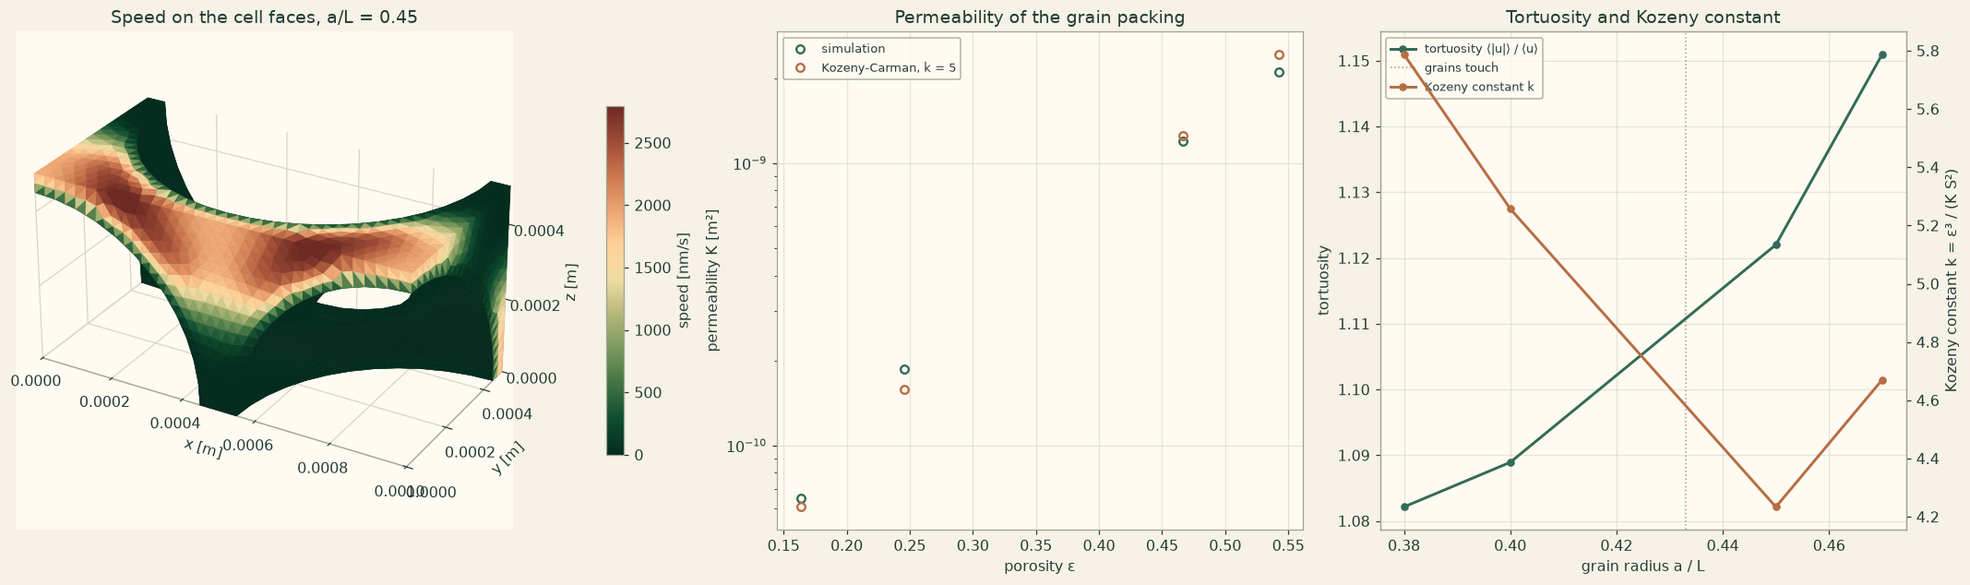
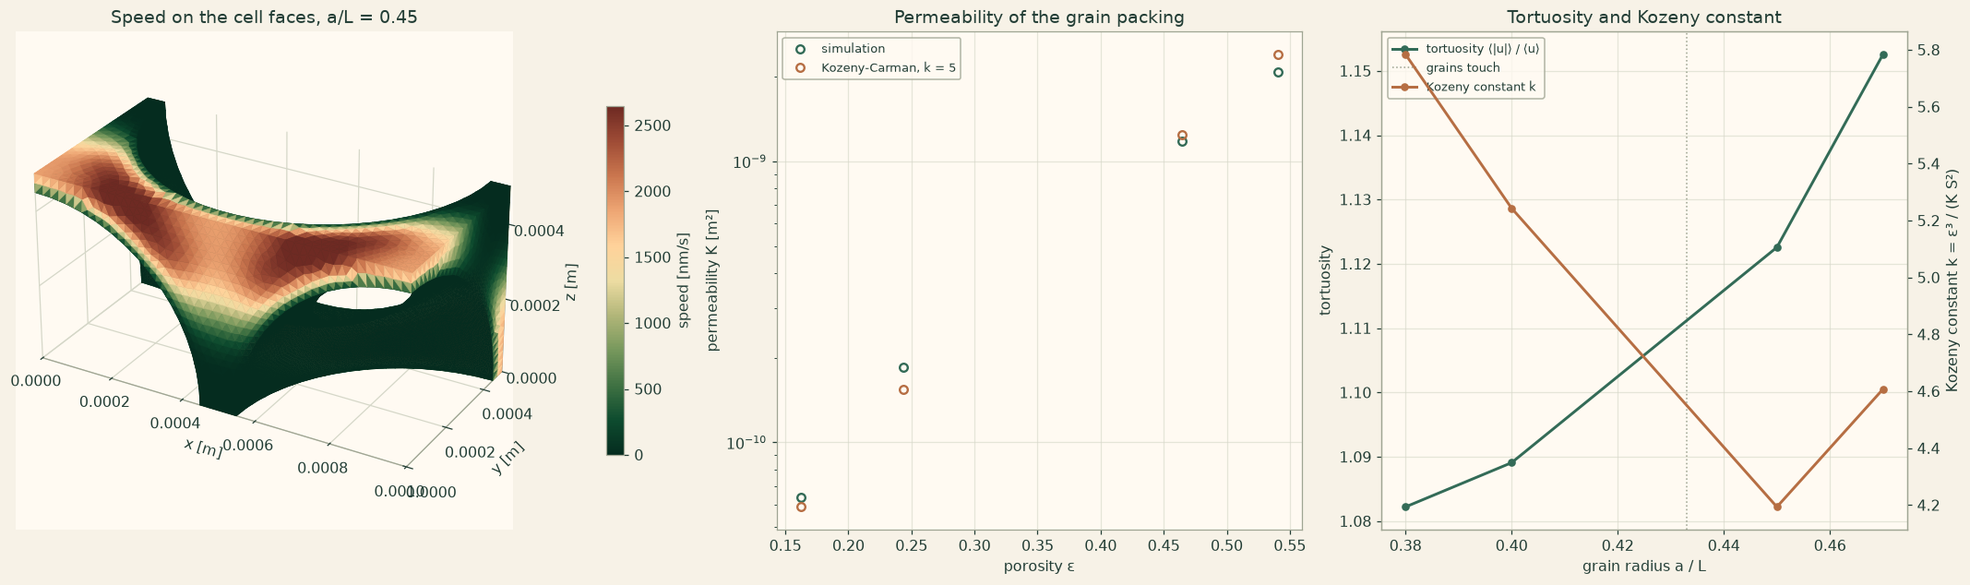
Publish refined three-dimensional permeability and grain-flow figures

diff --git a/examples/notebooks/porous_microstructure_hexagonal_array.html b/examples/notebooks/porous_microstructure_hexagonal_array.html
@@ -22,7 +22,7 @@
 <div class="layout">
 <details class="menu"><summary>Menu</summary><nav class="side" aria-label="Documentation"><a class="" href="../../index.html">Overview</a><a class="" href="../../quickstart.html">Quickstart</a><p class="group">Examples</p><a class="" href="../../examples/index.html">Example library</a><a class="" href="../../examples/method-swap.html">One model, five discretizations</a><a class="" href="../../examples/cantilever.html">A 3D cantilever</a><a class="" href="../../examples/custom-equation.html">Your own equation</a><p class="group">Guide</p><p class="part">Start here</p><a class="" href="../../guide/how-to-use-this-guide.html"><span class="num"></span> How to use this guide</a><p class="part">Part I · From model to notebook</p><a class="" href="../../guide/1-set-up-the-notebook.html"><span class="num">1</span> Set up the notebook</a><a class="" href="../../guide/2-transient-radiation-and-vibration.html"><span class="num">2</span> Transient radiation and vibration</a><a class="" href="../../guide/3-three-spatial-studies.html"><span class="num">3</span> Three spatial studies</a><a class="" href="../../guide/4-read-visualize-and-export-results.html"><span class="num">4</span> Read, visualize and export results</a><p class="part">Part II · Physics model selection</p><a class="" href="../../guide/5-build-a-first-case-in-each-physics-package/index.html"><span class="num">5</span> Build a first case in each physics package</a><a class="" href="../../guide/6-worked-physics-and-service-recipes/index.html"><span class="num">6</span> Worked physics and service recipes</a><p class="part">Part III · Select and combine numerical methods</p><a class="" href="../../guide/7-numerical-configuration-and-spatial-operators.html"><span class="num">7</span> Numerical configuration and spatial operators</a><a class="" href="../../guide/8-solvers-time-integration-and-coupled-fields.html"><span class="num">8</span> Solvers, time integration and coupled fields</a><a class="" href="../../guide/9-worked-numerical-comparisons/index.html"><span class="num">9</span> Worked numerical comparisons</a><a class="" href="../../guide/10-executable-numerical-recipes/index.html"><span class="num">10</span> Executable numerical recipes</a><a class="" href="../../guide/11-define-and-solve-your-own-equation.html"><span class="num">11</span> Define and solve your own equation</a><a class="" href="../../guide/12-diagnose-a-notebook-result.html"><span class="num">12</span> Diagnose a notebook result</a><a class="" href="../../guide/13-coverage-and-navigation-by-symbol/index.html"><span class="num">13</span> Coverage and navigation by symbol</a><p class="part">API reference</p><a class="" href="../../reference/a-physics-api-reference/index.html"><span class="num">A</span> Physics API reference</a><a class="" href="../../reference/b-numerical-api-reference/index.html"><span class="num">B</span> Numerical API reference</a><a class="" href="../../reference/c-exposed-operator-and-service-namespaces/index.html"><span class="num">C</span> Exposed operator and service namespaces</a><p class="group">Teaching</p><a class="" href="../../teaching/index.html">For instructors</a><a class="" href="../../teaching/course.html">A 14-week lab course</a><a class="" href="../../teaching/exercises.html">Exercise sheets</a><p class="group">Trust and terms</p><a class="" href="../../verification.html">Verification</a><a class="" href="../../plans.html">Plans and licence</a></nav></details>
 <div class="side-wrap"><nav class="side" aria-label="Documentation"><a class="" href="../../index.html">Overview</a><a class="" href="../../quickstart.html">Quickstart</a><p class="group">Examples</p><a class="" href="../../examples/index.html">Example library</a><a class="" href="../../examples/method-swap.html">One model, five discretizations</a><a class="" href="../../examples/cantilever.html">A 3D cantilever</a><a class="" href="../../examples/custom-equation.html">Your own equation</a><p class="group">Guide</p><p class="part">Start here</p><a class="" href="../../guide/how-to-use-this-guide.html"><span class="num"></span> How to use this guide</a><p class="part">Part I · From model to notebook</p><a class="" href="../../guide/1-set-up-the-notebook.html"><span class="num">1</span> Set up the notebook</a><a class="" href="../../guide/2-transient-radiation-and-vibration.html"><span class="num">2</span> Transient radiation and vibration</a><a class="" href="../../guide/3-three-spatial-studies.html"><span class="num">3</span> Three spatial studies</a><a class="" href="../../guide/4-read-visualize-and-export-results.html"><span class="num">4</span> Read, visualize and export results</a><p class="part">Part II · Physics model selection</p><a class="" href="../../guide/5-build-a-first-case-in-each-physics-package/index.html"><span class="num">5</span> Build a first case in each physics package</a><a class="" href="../../guide/6-worked-physics-and-service-recipes/index.html"><span class="num">6</span> Worked physics and service recipes</a><p class="part">Part III · Select and combine numerical methods</p><a class="" href="../../guide/7-numerical-configuration-and-spatial-operators.html"><span class="num">7</span> Numerical configuration and spatial operators</a><a class="" href="../../guide/8-solvers-time-integration-and-coupled-fields.html"><span class="num">8</span> Solvers, time integration and coupled fields</a><a class="" href="../../guide/9-worked-numerical-comparisons/index.html"><span class="num">9</span> Worked numerical comparisons</a><a class="" href="../../guide/10-executable-numerical-recipes/index.html"><span class="num">10</span> Executable numerical recipes</a><a class="" href="../../guide/11-define-and-solve-your-own-equation.html"><span class="num">11</span> Define and solve your own equation</a><a class="" href="../../guide/12-diagnose-a-notebook-result.html"><span class="num">12</span> Diagnose a notebook result</a><a class="" href="../../guide/13-coverage-and-navigation-by-symbol/index.html"><span class="num">13</span> Coverage and navigation by symbol</a><p class="part">API reference</p><a class="" href="../../reference/a-physics-api-reference/index.html"><span class="num">A</span> Physics API reference</a><a class="" href="../../reference/b-numerical-api-reference/index.html"><span class="num">B</span> Numerical API reference</a><a class="" href="../../reference/c-exposed-operator-and-service-namespaces/index.html"><span class="num">C</span> Exposed operator and service namespaces</a><p class="group">Teaching</p><a class="" href="../../teaching/index.html">For instructors</a><a class="" href="../../teaching/course.html">A 14-week lab course</a><a class="" href="../../teaching/exercises.html">Exercise sheets</a><p class="group">Trust and terms</p><a class="" href="../../verification.html">Verification</a><a class="" href="../../plans.html">Plans and licence</a></nav></div>
-<main id="content"><p class="crumbs"><a href="../../index.html">Docs</a> › <a href="../../examples/index.html">Examples</a> › Porous structure on the microscopic scale: a sintered grain packing</p><p class="eyebrow">Porous media · 3D</p><h1>Porous structure on the microscopic scale: a sintered grain packing</h1><p class="lead">Porosity, specific surface, tortuosity and permeability of a body-centred grain packing, with separate and with sintered grains, from the resolved 3D pore flow in one periodic cell.</p><div class="chips"><span>STEP import</span><span>Periodic pore cell</span><span>Taylor-Hood tetrahedra</span><span>Kozeny-Carman check</span></div><p class="note"><strong>Run locally with OneSimulation.</strong> The example downloads are free. Running them requires an activated runtime. Runtime Alpha 0.2.1a8 · CPython 3.13 on macOS (Apple Silicon), Ubuntu 22.04 (x86-64), and Windows x64. <a href="../../quickstart.html#need">Installation and activation</a> · <a href="../../plans.html">View pilot plans</a>. <a href="../../verification.html#scope">Scope of the reference checks</a>.</p><div class="button-row"><a class="button" href="../../notebooks/porous_microstructure_hexagonal_array.ipynb" download>Download the notebook (.ipynb)</a><a class="button light" href="../../notebooks/porous_microstructure_hexagonal_array.py" download>Download the script (.py)</a><a class="button light" href="../../notebooks/porous_microstructure_hexagonal_array.step" download>Download the geometry (.step)</a><a class="button light" href="../../notebooks/porous_microstructure_hexagonal_array_geometry.py" download>Download the geometry script (.py)</a></div><figure><a href="../../figures/library/porous_microstructure_hexagonal_array.png" aria-label="Open result plot for Porous structure on the microscopic scale: a sintered grain packing at full size" style="display:inline-block;max-width:100%;cursor:zoom-in"><img loading="lazy" src="../../figures/library/porous_microstructure_hexagonal_array.png" alt="Porous structure on the microscopic scale: a sintered grain packing"></a><figcaption>Porous structure on the microscopic scale: a sintered grain packing. Run the notebook to produce its own figures.</figcaption></figure><h2 id="what">What it computes</h2><p>OneSimulation reads a quarter of the periodic unit cell, the pore space left between corner and centre grains, from STEP files for four grain sizes, meshes it with tetrahedra whose periodic faces match and solves the 3D creeping flow with Taylor-Hood elements, driven by a uniform pressure gradient between mirror planes; the homogenized numbers for a Darcy or Brinkman model follow by integration. The script that builds the STEP files comes with the notebook.</p><h2 id="checks">What it checks</h2><p>The permeability lies within 0.86 to 1.18 times the Kozeny-Carman value with Carman&#x27;s constant 5 for porosities 0.16 to 0.54 (computed Kozeny constant 4.2 to 5.8), the mesh porosity matches the CAD volume within 0.003, and the mesh study at a/L = 0.45 changes the permeability by 0.8 % between the two finest meshes.</p><h2 id="geometry">Geometry</h2><p>The notebook starts at the import of the CAD files <a href="../../notebooks/porous_microstructure_hexagonal_array.step" download><code>porous_microstructure_hexagonal_array.step</code></a>, <a href="../../notebooks/porous_microstructure_hexagonal_array_38.step" download><code>porous_microstructure_hexagonal_array_38.step</code></a>, <a href="../../notebooks/porous_microstructure_hexagonal_array_40.step" download><code>porous_microstructure_hexagonal_array_40.step</code></a>, <a href="../../notebooks/porous_microstructure_hexagonal_array_45.step" download><code>porous_microstructure_hexagonal_array_45.step</code></a>, <a href="../../notebooks/porous_microstructure_hexagonal_array_47.step" download><code>porous_microstructure_hexagonal_array_47.step</code></a>: STEP (AP242), readable by any CAD program, with the names of the faces that the boundary conditions use. Put them next to the notebook.</p><figure><a href="../../figures/library/porous_microstructure_hexagonal_array_geometry.png" aria-label="Open geometry for Porous structure on the microscopic scale: a sintered grain packing at full size" style="display:inline-block;max-width:100%;cursor:zoom-in"><img loading="lazy" src="../../figures/library/porous_microstructure_hexagonal_array_geometry.png" alt="Geometry of the example: Porous structure on the microscopic scale: a sintered grain packing"></a><figcaption>The geometry as the notebook reads it from the STEP file and draws it.</figcaption></figure><div class="button-row"><a class="button light" href="../../notebooks/porous_microstructure_hexagonal_array.step" download>Download the geometry (.step)</a><a class="button light" href="../../notebooks/porous_microstructure_hexagonal_array_38.step" download>Download the part 38 (.step)</a><a class="button light" href="../../notebooks/porous_microstructure_hexagonal_array_40.step" download>Download the part 40 (.step)</a><a class="button light" href="../../notebooks/porous_microstructure_hexagonal_array_45.step" download>Download the part 45 (.step)</a><a class="button light" href="../../notebooks/porous_microstructure_hexagonal_array_47.step" download>Download the part 47 (.step)</a><a class="button light" href="../../notebooks/porous_microstructure_hexagonal_array_geometry.py" download>Download the geometry script (.py)</a></div><h3 id="geometry-script">The geometry script</h3><p>The script <a href="../../notebooks/porous_microstructure_hexagonal_array_geometry.py" download><code>porous_microstructure_hexagonal_array_geometry.py</code></a> builds the geometry with the CAD objects of OneSimulation and writes the files. Change a dimension there, run it, and run the notebook again.</p><div class="notebook"><div class="nb-code"><pre class="code" data-lang="python"><code><span class="sd">&quot;&quot;&quot;Geometry of the OneSimulation example &quot;Porous structure on the microscopic scale: a sintered grain packing&quot;.</span>
+<main id="content"><p class="crumbs"><a href="../../index.html">Docs</a> › <a href="../../examples/index.html">Examples</a> › Porous structure on the microscopic scale: a sintered grain packing</p><p class="eyebrow">Porous media · 3D</p><h1>Porous structure on the microscopic scale: a sintered grain packing</h1><p class="lead">Porosity, specific surface, tortuosity and permeability of a body-centred grain packing, with separate and with sintered grains, from the resolved 3D pore flow in one periodic cell.</p><div class="chips"><span>STEP import</span><span>Periodic pore cell</span><span>Taylor-Hood tetrahedra</span><span>Kozeny-Carman check</span></div><p class="note"><strong>Run locally with OneSimulation.</strong> The example downloads are free. Running them requires an activated runtime. Runtime Alpha 0.2.1a8 · CPython 3.13 on macOS (Apple Silicon), Ubuntu 22.04 (x86-64), and Windows x64. <a href="../../quickstart.html#need">Installation and activation</a> · <a href="../../plans.html">View pilot plans</a>. <a href="../../verification.html#scope">Scope of the reference checks</a>.</p><div class="button-row"><a class="button" href="../../notebooks/porous_microstructure_hexagonal_array.ipynb" download>Download the notebook (.ipynb)</a><a class="button light" href="../../notebooks/porous_microstructure_hexagonal_array.py" download>Download the script (.py)</a><a class="button light" href="../../notebooks/porous_microstructure_hexagonal_array.step" download>Download the geometry (.step)</a><a class="button light" href="../../notebooks/porous_microstructure_hexagonal_array_geometry.py" download>Download the geometry script (.py)</a></div><figure><a href="../../figures/library/porous_microstructure_hexagonal_array.png" aria-label="Open result plot for Porous structure on the microscopic scale: a sintered grain packing at full size" style="display:inline-block;max-width:100%;cursor:zoom-in"><img loading="lazy" src="../../figures/library/porous_microstructure_hexagonal_array.png" alt="Porous structure on the microscopic scale: a sintered grain packing"></a><figcaption>Porous structure on the microscopic scale: a sintered grain packing. Run the notebook to produce its own figures.</figcaption></figure><h2 id="what">What it computes</h2><p>OneSimulation reads a quarter of the periodic unit cell, the pore space left between corner and centre grains, from STEP files for four grain sizes, meshes it with tetrahedra whose periodic faces match and solves the 3D creeping flow with Taylor-Hood elements, driven by a uniform pressure gradient between mirror planes; the homogenized numbers for a Darcy or Brinkman model follow by integration. The script that builds the STEP files comes with the notebook.</p><h2 id="checks">What it checks</h2><p>At a/L = 0.45 the finest grid grows from 2,386 to 4,887 nodes and from 8,097 to 17,418 tetrahedra. The last two meshes give a 0.42% change in permeability, with K = 1.846e-10 m² on the finest grid. Across all four packings, permeability is 0.86–1.19 times the Kozeny-Carman estimate, and the largest absolute difference between mesh and CAD porosity is 0.0006.</p><h2 id="geometry">Geometry</h2><p>Save the STEP files <a href="../../notebooks/porous_microstructure_hexagonal_array.step" download><code>porous_microstructure_hexagonal_array.step</code></a>, <a href="../../notebooks/porous_microstructure_hexagonal_array_38.step" download><code>porous_microstructure_hexagonal_array_38.step</code></a>, <a href="../../notebooks/porous_microstructure_hexagonal_array_40.step" download><code>porous_microstructure_hexagonal_array_40.step</code></a>, <a href="../../notebooks/porous_microstructure_hexagonal_array_45.step" download><code>porous_microstructure_hexagonal_array_45.step</code></a>, <a href="../../notebooks/porous_microstructure_hexagonal_array_47.step" download><code>porous_microstructure_hexagonal_array_47.step</code></a> next to the notebook before running it.</p><figure><a href="../../figures/library/porous_microstructure_hexagonal_array_geometry.png" aria-label="Open geometry for Porous structure on the microscopic scale: a sintered grain packing at full size" style="display:inline-block;max-width:100%;cursor:zoom-in"><img loading="lazy" src="../../figures/library/porous_microstructure_hexagonal_array_geometry.png" alt="Geometry of the example: Porous structure on the microscopic scale: a sintered grain packing"></a><figcaption>Geometry used by the notebook.</figcaption></figure><div class="button-row"><a class="button light" href="../../notebooks/porous_microstructure_hexagonal_array.step" download>Download the geometry (.step)</a><a class="button light" href="../../notebooks/porous_microstructure_hexagonal_array_38.step" download>Download the part 38 (.step)</a><a class="button light" href="../../notebooks/porous_microstructure_hexagonal_array_40.step" download>Download the part 40 (.step)</a><a class="button light" href="../../notebooks/porous_microstructure_hexagonal_array_45.step" download>Download the part 45 (.step)</a><a class="button light" href="../../notebooks/porous_microstructure_hexagonal_array_47.step" download>Download the part 47 (.step)</a><a class="button light" href="../../notebooks/porous_microstructure_hexagonal_array_geometry.py" download>Download the geometry script (.py)</a></div><h3 id="geometry-script">The geometry script</h3><p>The script <a href="../../notebooks/porous_microstructure_hexagonal_array_geometry.py" download><code>porous_microstructure_hexagonal_array_geometry.py</code></a> builds the geometry with the CAD objects of OneSimulation and writes the files. Change a dimension there, run it, and run the notebook again.</p><div class="notebook"><div class="nb-code"><pre class="code" data-lang="python"><code><span class="sd">&quot;&quot;&quot;Geometry of the OneSimulation example &quot;Porous structure on the microscopic scale: a sintered grain packing&quot;.</span>
 
 <span class="sd">Builds a quarter of the periodic unit cell of a body-centred cubic packing of spherical grains with</span>
 <span class="sd">the CAD objects of OneSimulation. The cell has the side 1 mm; grains sit on its corners and in its</span>
@@ -71,15 +71,17 @@
 <span class="kn">from</span><span class="w"> </span><span class="nn">onesim.visualization</span><span class="w"> </span><span class="kn">import</span> <span class="n">plots</span><span class="p">,</span> <span class="n">theme</span>
 
 <span class="n">theme</span><span class="o">.</span><span class="n">set</span><span class="p">()</span></code></pre></div><div class="nb-md"><h4>Geometry and mesh</h4>
-<p>Tetrahedra of 0.06 mm in the pores and 0.032 mm on the grains; the two periodic faces carry the same triangles. The mesh study at <span class="math">\(a/L=0.45\)</span> adds 0.045 mm and 0.022 mm on the grains. The specific surface is the area of the grain faces of the CAD part over the volume of the quarter.</p></div><div class="nb-code"><pre class="code" data-lang="python"><code><span class="n">ratios</span> <span class="o">=</span> <span class="p">(</span><span class="mf">0.38</span><span class="p">,</span> <span class="mf">0.40</span><span class="p">,</span> <span class="mf">0.45</span><span class="p">,</span> <span class="mf">0.47</span><span class="p">)</span>
+<p>The fine mesh uses 0.045 mm in the pores and 0.016 mm on the grains. The two periodic faces carry the same triangles. The mesh study at <span class="math">\(a/L=0.45\)</span> adds 0.032 mm and 0.022 mm on the grains. The specific surface is the area of the grain faces of the CAD part over the volume of the quarter.</p></div><div class="nb-code"><pre class="code" data-lang="python"><code><span class="n">ratios</span> <span class="o">=</span> <span class="p">(</span><span class="mf">0.38</span><span class="p">,</span> <span class="mf">0.40</span><span class="p">,</span> <span class="mf">0.45</span><span class="p">,</span> <span class="mf">0.47</span><span class="p">)</span>
 <span class="n">cells</span> <span class="o">=</span> <span class="p">{</span><span class="n">ratio</span><span class="p">:</span> <span class="n">load</span><span class="p">(</span><span class="sa">f</span><span class="s2">&quot;porous_microstructure_hexagonal_array_</span><span class="si">{</span><span class="nb">round</span><span class="p">(</span><span class="mi">100</span><span class="w"> </span><span class="o">*</span><span class="w"> </span><span class="n">ratio</span><span class="p">)</span><span class="si">}</span><span class="s2">.step&quot;</span><span class="p">)</span> <span class="k">for</span> <span class="n">ratio</span> <span class="ow">in</span> <span class="n">ratios</span><span class="p">}</span>
 <span class="n">side</span> <span class="o">=</span> <span class="n">cells</span><span class="p">[</span><span class="mf">0.45</span><span class="p">]</span><span class="o">.</span><span class="n">size</span><span class="p">[</span><span class="mi">0</span><span class="p">]</span>
 <span class="n">volume</span> <span class="o">=</span> <span class="n">side</span><span class="o">**</span><span class="mi">3</span> <span class="o">/</span> <span class="mi">4</span>
-<span class="n">grain_sizes</span> <span class="o">=</span> <span class="p">(</span><span class="mf">0.045e-3</span><span class="p">,</span> <span class="mf">0.032e-3</span><span class="p">,</span> <span class="mf">0.022e-3</span><span class="p">)</span>
-<span class="n">cases</span> <span class="o">=</span> <span class="p">[(</span><span class="n">ratio</span><span class="p">,</span> <span class="n">grain_sizes</span><span class="p">[</span><span class="mi">1</span><span class="p">])</span> <span class="k">for</span> <span class="n">ratio</span> <span class="ow">in</span> <span class="n">ratios</span><span class="p">]</span> <span class="o">+</span> <span class="p">[(</span><span class="mf">0.45</span><span class="p">,</span> <span class="n">grain_sizes</span><span class="p">[</span><span class="mi">0</span><span class="p">]),</span> <span class="p">(</span><span class="mf">0.45</span><span class="p">,</span> <span class="n">grain_sizes</span><span class="p">[</span><span class="mi">2</span><span class="p">])]</span>
-<span class="n">meshes</span> <span class="o">=</span> <span class="p">{(</span><span class="n">ratio</span><span class="p">,</span> <span class="n">size</span><span class="p">):</span> <span class="n">TetrahedralMesher</span><span class="p">(</span><span class="n">target_size</span><span class="o">=</span><span class="mf">0.06e-3</span><span class="p">,</span> <span class="n">refinements</span><span class="o">=</span><span class="p">(</span><span class="n">LocalRefinement</span><span class="p">(</span><span class="n">region</span><span class="o">=</span><span class="n">cells</span><span class="p">[</span><span class="n">ratio</span><span class="p">]</span><span class="o">.</span><span class="n">boundaries</span><span class="o">.</span><span class="n">grains</span><span class="p">,</span> <span class="n">target_size</span><span class="o">=</span><span class="n">size</span><span class="p">),),</span>
+<span class="n">grain_sizes</span> <span class="o">=</span> <span class="p">(</span><span class="mf">0.032e-3</span><span class="p">,</span> <span class="mf">0.022e-3</span><span class="p">,</span> <span class="mf">0.016e-3</span><span class="p">)</span>
+<span class="n">cases</span> <span class="o">=</span> <span class="p">[(</span><span class="n">ratio</span><span class="p">,</span> <span class="n">grain_sizes</span><span class="p">[</span><span class="o">-</span><span class="mi">1</span><span class="p">])</span> <span class="k">for</span> <span class="n">ratio</span> <span class="ow">in</span> <span class="n">ratios</span><span class="p">]</span> <span class="o">+</span> <span class="p">[(</span><span class="mf">0.45</span><span class="p">,</span> <span class="n">size</span><span class="p">)</span> <span class="k">for</span> <span class="n">size</span> <span class="ow">in</span> <span class="n">grain_sizes</span><span class="p">[:</span><span class="o">-</span><span class="mi">1</span><span class="p">]]</span>
+<span class="n">meshes</span> <span class="o">=</span> <span class="p">{(</span><span class="n">ratio</span><span class="p">,</span> <span class="n">size</span><span class="p">):</span> <span class="n">TetrahedralMesher</span><span class="p">(</span><span class="n">target_size</span><span class="o">=</span><span class="mf">0.045e-3</span><span class="p">,</span> <span class="n">refinements</span><span class="o">=</span><span class="p">(</span><span class="n">LocalRefinement</span><span class="p">(</span><span class="n">region</span><span class="o">=</span><span class="n">cells</span><span class="p">[</span><span class="n">ratio</span><span class="p">]</span><span class="o">.</span><span class="n">boundaries</span><span class="o">.</span><span class="n">grains</span><span class="p">,</span> <span class="n">target_size</span><span class="o">=</span><span class="n">size</span><span class="p">),),</span>
                                            <span class="n">periodic_pairs</span><span class="o">=</span><span class="p">(</span><span class="n">PeriodicPair</span><span class="p">(</span><span class="n">first</span><span class="o">=</span><span class="n">cells</span><span class="p">[</span><span class="n">ratio</span><span class="p">]</span><span class="o">.</span><span class="n">boundaries</span><span class="o">.</span><span class="n">x_min</span><span class="p">,</span> <span class="n">second</span><span class="o">=</span><span class="n">cells</span><span class="p">[</span><span class="n">ratio</span><span class="p">]</span><span class="o">.</span><span class="n">boundaries</span><span class="o">.</span><span class="n">x_max</span><span class="p">),))</span>
           <span class="o">.</span><span class="n">generate</span><span class="p">(</span><span class="n">cells</span><span class="p">[</span><span class="n">ratio</span><span class="p">])</span> <span class="k">for</span> <span class="n">ratio</span><span class="p">,</span> <span class="n">size</span> <span class="ow">in</span> <span class="n">cases</span><span class="p">}</span>
+<span class="k">for</span> <span class="p">(</span><span class="n">ratio</span><span class="p">,</span> <span class="n">size</span><span class="p">),</span> <span class="n">mesh</span> <span class="ow">in</span> <span class="n">meshes</span><span class="o">.</span><span class="n">items</span><span class="p">():</span>
+    <span class="nb">print</span><span class="p">(</span><span class="sa">f</span><span class="s2">&quot;a/L=</span><span class="si">{</span><span class="n">ratio</span><span class="si">:</span><span class="s2">.2f</span><span class="si">}</span><span class="s2">, grain spacing </span><span class="si">{</span><span class="n">size</span><span class="o">*</span><span class="mf">1e3</span><span class="si">:</span><span class="s2">.3f</span><span class="si">}</span><span class="s2"> mm: </span><span class="si">{</span><span class="nb">len</span><span class="p">(</span><span class="n">mesh</span><span class="o">.</span><span class="n">coordinates</span><span class="p">)</span><span class="si">:</span><span class="s2">,</span><span class="si">}</span><span class="s2"> nodes, </span><span class="si">{</span><span class="n">mesh</span><span class="o">.</span><span class="n">cell_count</span><span class="si">:</span><span class="s2">,</span><span class="si">}</span><span class="s2"> tetrahedra&quot;</span><span class="p">)</span>
 <span class="n">surface</span> <span class="o">=</span> <span class="p">{</span><span class="n">ratio</span><span class="p">:</span> <span class="nb">sum</span><span class="p">(</span><span class="n">face</span><span class="o">.</span><span class="n">area</span> <span class="k">for</span> <span class="n">face</span> <span class="ow">in</span> <span class="n">cell</span><span class="o">.</span><span class="n">faces</span> <span class="k">if</span> <span class="n">face</span><span class="o">.</span><span class="n">id</span> <span class="ow">in</span> <span class="n">cell</span><span class="o">.</span><span class="n">boundaries</span><span class="o">.</span><span class="n">grains</span><span class="o">.</span><span class="n">members</span><span class="p">)</span> <span class="o">/</span> <span class="n">volume</span> <span class="k">for</span> <span class="n">ratio</span><span class="p">,</span> <span class="n">cell</span> <span class="ow">in</span> <span class="n">cells</span><span class="o">.</span><span class="n">items</span><span class="p">()}</span>
 
 <span class="n">cell</span> <span class="o">=</span> <span class="n">load</span><span class="p">(</span><span class="s2">&quot;porous_microstructure_hexagonal_array.step&quot;</span><span class="p">)</span>
@@ -87,8 +89,8 @@
 <span class="n">fig</span> <span class="o">=</span> <span class="n">plots</span><span class="o">.</span><span class="n">figure</span><span class="p">(</span><span class="mi">1</span><span class="p">,</span> <span class="mi">2</span><span class="p">,</span> <span class="n">size</span><span class="o">=</span><span class="p">(</span><span class="mi">14</span><span class="p">,</span> <span class="mi">6</span><span class="p">))</span>
 <span class="n">plots</span><span class="o">.</span><span class="n">geometry</span><span class="p">(</span><span class="n">cell</span><span class="p">,</span> <span class="n">selection</span><span class="o">=</span><span class="p">{</span><span class="s2">&quot;grains&quot;</span><span class="p">:</span> <span class="n">cell</span><span class="o">.</span><span class="n">boundaries</span><span class="o">.</span><span class="n">grains</span><span class="p">,</span> <span class="s2">&quot;periodic pair&quot;</span><span class="p">:</span> <span class="n">cell</span><span class="o">.</span><span class="n">boundaries</span><span class="o">.</span><span class="n">x_min</span> <span class="o">|</span> <span class="n">cell</span><span class="o">.</span><span class="n">boundaries</span><span class="o">.</span><span class="n">x_max</span><span class="p">},</span>
                <span class="n">labels</span><span class="o">=</span><span class="kc">False</span><span class="p">,</span> <span class="n">camera</span><span class="o">=</span><span class="n">view</span><span class="p">,</span> <span class="n">title</span><span class="o">=</span><span class="s2">&quot;Pore space of a quarter cell, sintered grains (a/L = 0.45)&quot;</span><span class="p">,</span> <span class="n">ax</span><span class="o">=</span><span class="n">fig</span><span class="p">[</span><span class="mi">0</span><span class="p">])</span>
-<span class="n">plots</span><span class="o">.</span><span class="n">mesh</span><span class="p">(</span><span class="n">meshes</span><span class="p">[</span><span class="mf">0.45</span><span class="p">,</span> <span class="n">grain_sizes</span><span class="p">[</span><span class="mi">1</span><span class="p">]],</span> <span class="n">groups</span><span class="o">=</span><span class="p">(</span><span class="s2">&quot;all&quot;</span><span class="p">,),</span> <span class="n">legend</span><span class="o">=</span><span class="kc">False</span><span class="p">,</span> <span class="n">camera</span><span class="o">=</span><span class="n">view</span><span class="p">,</span>
-           <span class="n">title</span><span class="o">=</span><span class="sa">f</span><span class="s2">&quot;</span><span class="si">{</span><span class="n">meshes</span><span class="p">[</span><span class="mf">0.45</span><span class="p">,</span><span class="w"> </span><span class="n">grain_sizes</span><span class="p">[</span><span class="mi">1</span><span class="p">]]</span><span class="o">.</span><span class="n">cell_count</span><span class="si">}</span><span class="s2"> tetrahedra&quot;</span><span class="p">,</span> <span class="n">ax</span><span class="o">=</span><span class="n">fig</span><span class="p">[</span><span class="mi">1</span><span class="p">])</span>
+<span class="n">plots</span><span class="o">.</span><span class="n">mesh</span><span class="p">(</span><span class="n">meshes</span><span class="p">[</span><span class="mf">0.45</span><span class="p">,</span> <span class="n">grain_sizes</span><span class="p">[</span><span class="o">-</span><span class="mi">1</span><span class="p">]],</span> <span class="n">groups</span><span class="o">=</span><span class="p">(</span><span class="s2">&quot;all&quot;</span><span class="p">,),</span> <span class="n">legend</span><span class="o">=</span><span class="kc">False</span><span class="p">,</span> <span class="n">camera</span><span class="o">=</span><span class="n">view</span><span class="p">,</span>
+           <span class="n">title</span><span class="o">=</span><span class="sa">f</span><span class="s2">&quot;</span><span class="si">{</span><span class="n">meshes</span><span class="p">[</span><span class="mf">0.45</span><span class="p">,</span><span class="w"> </span><span class="n">grain_sizes</span><span class="p">[</span><span class="o">-</span><span class="mi">1</span><span class="p">]]</span><span class="o">.</span><span class="n">cell_count</span><span class="si">}</span><span class="s2"> tetrahedra&quot;</span><span class="p">,</span> <span class="n">ax</span><span class="o">=</span><span class="n">fig</span><span class="p">[</span><span class="mi">1</span><span class="p">])</span>
 <span class="n">plots</span><span class="o">.</span><span class="n">show</span><span class="p">()</span></code></pre></div><div class="nb-md"><h4>Model</h4>
 <p>Water and a pressure gradient of 1 Pa/m keep the Reynolds number far below one. The pressure, periodic and fixed only up to a constant, gets the mean value zero.</p></div><div class="nb-code"><pre class="code" data-lang="python"><code><span class="n">water</span><span class="p">,</span> <span class="n">gradient</span> <span class="o">=</span> <span class="n">NewtonianFluid</span><span class="p">(</span><span class="n">density</span><span class="o">=</span><span class="mf">1000.0</span><span class="p">,</span> <span class="n">dynamic_viscosity</span><span class="o">=</span><span class="mf">1.0e-3</span><span class="p">),</span> <span class="mf">1.0</span>
 <span class="n">models</span> <span class="o">=</span> <span class="p">{</span><span class="n">ratio</span><span class="p">:</span> <span class="n">IncompressibleNavierStokes</span><span class="p">(</span><span class="n">domain</span><span class="o">=</span><span class="n">cells</span><span class="p">[</span><span class="n">ratio</span><span class="p">]</span><span class="o">.</span><span class="n">volume</span><span class="p">,</span> <span class="n">material</span><span class="o">=</span><span class="n">water</span><span class="p">,</span> <span class="n">body_force</span><span class="o">=</span><span class="p">(</span><span class="n">gradient</span><span class="p">,</span> <span class="mf">0.0</span><span class="p">,</span> <span class="mf">0.0</span><span class="p">))</span> <span class="k">for</span> <span class="n">ratio</span> <span class="ow">in</span> <span class="n">ratios</span><span class="p">}</span>
@@ -102,7 +104,7 @@
     <span class="n">spatial</span><span class="o">=</span><span class="n">FiniteElement</span><span class="p">(</span><span class="n">element</span><span class="o">=</span><span class="n">TaylorHood</span><span class="p">()),</span> <span class="n">initial_guess</span><span class="o">=</span><span class="p">{</span><span class="n">models</span><span class="p">[</span><span class="n">ratio</span><span class="p">]</span><span class="o">.</span><span class="n">velocity</span><span class="p">:</span> <span class="p">(</span><span class="mf">0.0</span><span class="p">,</span> <span class="mf">0.0</span><span class="p">,</span> <span class="mf">0.0</span><span class="p">)},</span>
     <span class="n">nonlinear_solver</span><span class="o">=</span><span class="n">Newton</span><span class="p">(</span><span class="n">linear_solver</span><span class="o">=</span><span class="n">SparseDirect</span><span class="p">(),</span> <span class="n">absolute_tolerance</span><span class="o">=</span><span class="mf">1e-20</span><span class="p">,</span> <span class="n">relative_tolerance</span><span class="o">=</span><span class="mf">1e-10</span><span class="p">)))</span><span class="o">.</span><span class="n">solve_stationary</span><span class="p">()</span>
     <span class="o">.</span><span class="n">field</span><span class="p">(</span><span class="n">models</span><span class="p">[</span><span class="n">ratio</span><span class="p">]</span><span class="o">.</span><span class="n">velocity</span><span class="p">)</span> <span class="k">for</span> <span class="n">ratio</span><span class="p">,</span> <span class="n">size</span> <span class="ow">in</span> <span class="n">cases</span><span class="p">}</span></code></pre></div><div class="nb-md"><h4>Results</h4>
-<p>The porosity of the mesh against the fluid volume of the CAD part, the specific surface, the permeability, the tortuosity and the Kozeny constant for the four grain sizes, the Kozeny-Carman permeability with Carman's <span class="math">\(k=5\)</span>, and the mesh study of the permeability.</p></div><div class="nb-code"><pre class="code" data-lang="python"><code><span class="n">main</span> <span class="o">=</span> <span class="n">grain_sizes</span><span class="p">[</span><span class="mi">1</span><span class="p">]</span>
+<p>The porosity of the mesh against the fluid volume of the CAD part, the specific surface, the permeability, the tortuosity and the Kozeny constant for the four grain sizes, the Kozeny-Carman permeability with Carman's <span class="math">\(k=5\)</span>, and the mesh study of the permeability.</p></div><div class="nb-code"><pre class="code" data-lang="python"><code><span class="n">main</span> <span class="o">=</span> <span class="n">grain_sizes</span><span class="p">[</span><span class="o">-</span><span class="mi">1</span><span class="p">]</span>
 <span class="n">porosity</span> <span class="o">=</span> <span class="p">{</span><span class="n">ratio</span><span class="p">:</span> <span class="n">derived_field</span><span class="p">(</span><span class="n">flows</span><span class="p">[</span><span class="n">ratio</span><span class="p">,</span> <span class="n">main</span><span class="p">],</span> <span class="k">lambda</span> <span class="n">u</span><span class="p">,</span> <span class="n">points</span><span class="p">:</span> <span class="n">np</span><span class="o">.</span><span class="n">ones</span><span class="p">(</span><span class="nb">len</span><span class="p">(</span><span class="n">points</span><span class="p">)),</span> <span class="n">name</span><span class="o">=</span><span class="s2">&quot;one&quot;</span><span class="p">,</span> <span class="n">unit</span><span class="o">=</span><span class="s2">&quot;1&quot;</span><span class="p">)</span><span class="o">.</span><span class="n">integrate</span><span class="p">()</span><span class="o">.</span><span class="n">value</span> <span class="o">/</span> <span class="n">volume</span>
             <span class="k">for</span> <span class="n">ratio</span> <span class="ow">in</span> <span class="n">ratios</span><span class="p">}</span>
 <span class="n">permeability</span> <span class="o">=</span> <span class="p">{</span><span class="n">key</span><span class="p">:</span> <span class="n">water</span><span class="o">.</span><span class="n">dynamic_viscosity</span> <span class="o">*</span> <span class="n">velocity</span><span class="o">.</span><span class="n">integrate</span><span class="p">()</span><span class="o">.</span><span class="n">value</span><span class="p">[</span><span class="mi">0</span><span class="p">]</span> <span class="o">/</span> <span class="n">volume</span> <span class="o">/</span> <span class="n">gradient</span> <span class="k">for</span> <span class="n">key</span><span class="p">,</span> <span class="n">velocity</span> <span class="ow">in</span> <span class="n">flows</span><span class="o">.</span><span class="n">items</span><span class="p">()}</span>

diff --git a/notebooks/porous_microstructure_hexagonal_array.py b/notebooks/porous_microstructure_hexagonal_array.py
@@ -69,19 +69,21 @@ theme.set()
 
 # ## Geometry and mesh
 #
-# Tetrahedra of 0.06 mm in the pores and 0.032 mm on the grains; the two periodic faces carry the
-# same triangles. The mesh study at $a/L=0.45$ adds 0.045 mm and 0.022 mm on the grains. The
+# The fine mesh uses 0.045 mm in the pores and 0.016 mm on the grains. The two periodic faces carry the
+# same triangles. The mesh study at $a/L=0.45$ adds 0.032 mm and 0.022 mm on the grains. The
 # specific surface is the area of the grain faces of the CAD part over the volume of the quarter.
 
 ratios = (0.38, 0.40, 0.45, 0.47)
 cells = {ratio: load(f"porous_microstructure_hexagonal_array_{round(100 * ratio)}.step") for ratio in ratios}
 side = cells[0.45].size[0]
 volume = side**3 / 4
-grain_sizes = (0.045e-3, 0.032e-3, 0.022e-3)
-cases = [(ratio, grain_sizes[1]) for ratio in ratios] + [(0.45, grain_sizes[0]), (0.45, grain_sizes[2])]
-meshes = {(ratio, size): TetrahedralMesher(target_size=0.06e-3, refinements=(LocalRefinement(region=cells[ratio].boundaries.grains, target_size=size),),
+grain_sizes = (0.032e-3, 0.022e-3, 0.016e-3)
+cases = [(ratio, grain_sizes[-1]) for ratio in ratios] + [(0.45, size) for size in grain_sizes[:-1]]
+meshes = {(ratio, size): TetrahedralMesher(target_size=0.045e-3, refinements=(LocalRefinement(region=cells[ratio].boundaries.grains, target_size=size),),
                                            periodic_pairs=(PeriodicPair(first=cells[ratio].boundaries.x_min, second=cells[ratio].boundaries.x_max),))
           .generate(cells[ratio]) for ratio, size in cases}
+for (ratio, size), mesh in meshes.items():
+    print(f"a/L={ratio:.2f}, grain spacing {size*1e3:.3f} mm: {len(mesh.coordinates):,} nodes, {mesh.cell_count:,} tetrahedra")
 surface = {ratio: sum(face.area for face in cell.faces if face.id in cell.boundaries.grains.members) / volume for ratio, cell in cells.items()}
 
 cell = load("porous_microstructure_hexagonal_array.step")
@@ -89,8 +91,8 @@ view = plots.Camera(elevation=28, azimuth=-60)
 fig = plots.figure(1, 2, size=(14, 6))
 plots.geometry(cell, selection={"grains": cell.boundaries.grains, "periodic pair": cell.boundaries.x_min | cell.boundaries.x_max},
                labels=False, camera=view, title="Pore space of a quarter cell, sintered grains (a/L = 0.45)", ax=fig[0])
-plots.mesh(meshes[0.45, grain_sizes[1]], groups=("all",), legend=False, camera=view,
-           title=f"{meshes[0.45, grain_sizes[1]].cell_count} tetrahedra", ax=fig[1])
+plots.mesh(meshes[0.45, grain_sizes[-1]], groups=("all",), legend=False, camera=view,
+           title=f"{meshes[0.45, grain_sizes[-1]].cell_count} tetrahedra", ax=fig[1])
 plots.show()
 
 # ## Model
@@ -117,7 +119,7 @@ flows = {(ratio, size): Simulation(problem=problems[ratio], mesh=meshes[ratio, s
 # permeability, the tortuosity and the Kozeny constant for the four grain sizes, the Kozeny-Carman
 # permeability with Carman's $k=5$, and the mesh study of the permeability.
 
-main = grain_sizes[1]
+main = grain_sizes[-1]
 porosity = {ratio: derived_field(flows[ratio, main], lambda u, points: np.ones(len(points)), name="one", unit="1").integrate().value / volume
             for ratio in ratios}
 permeability = {key: water.dynamic_viscosity * velocity.integrate().value[0] / volume / gradient for key, velocity in flows.items()}
